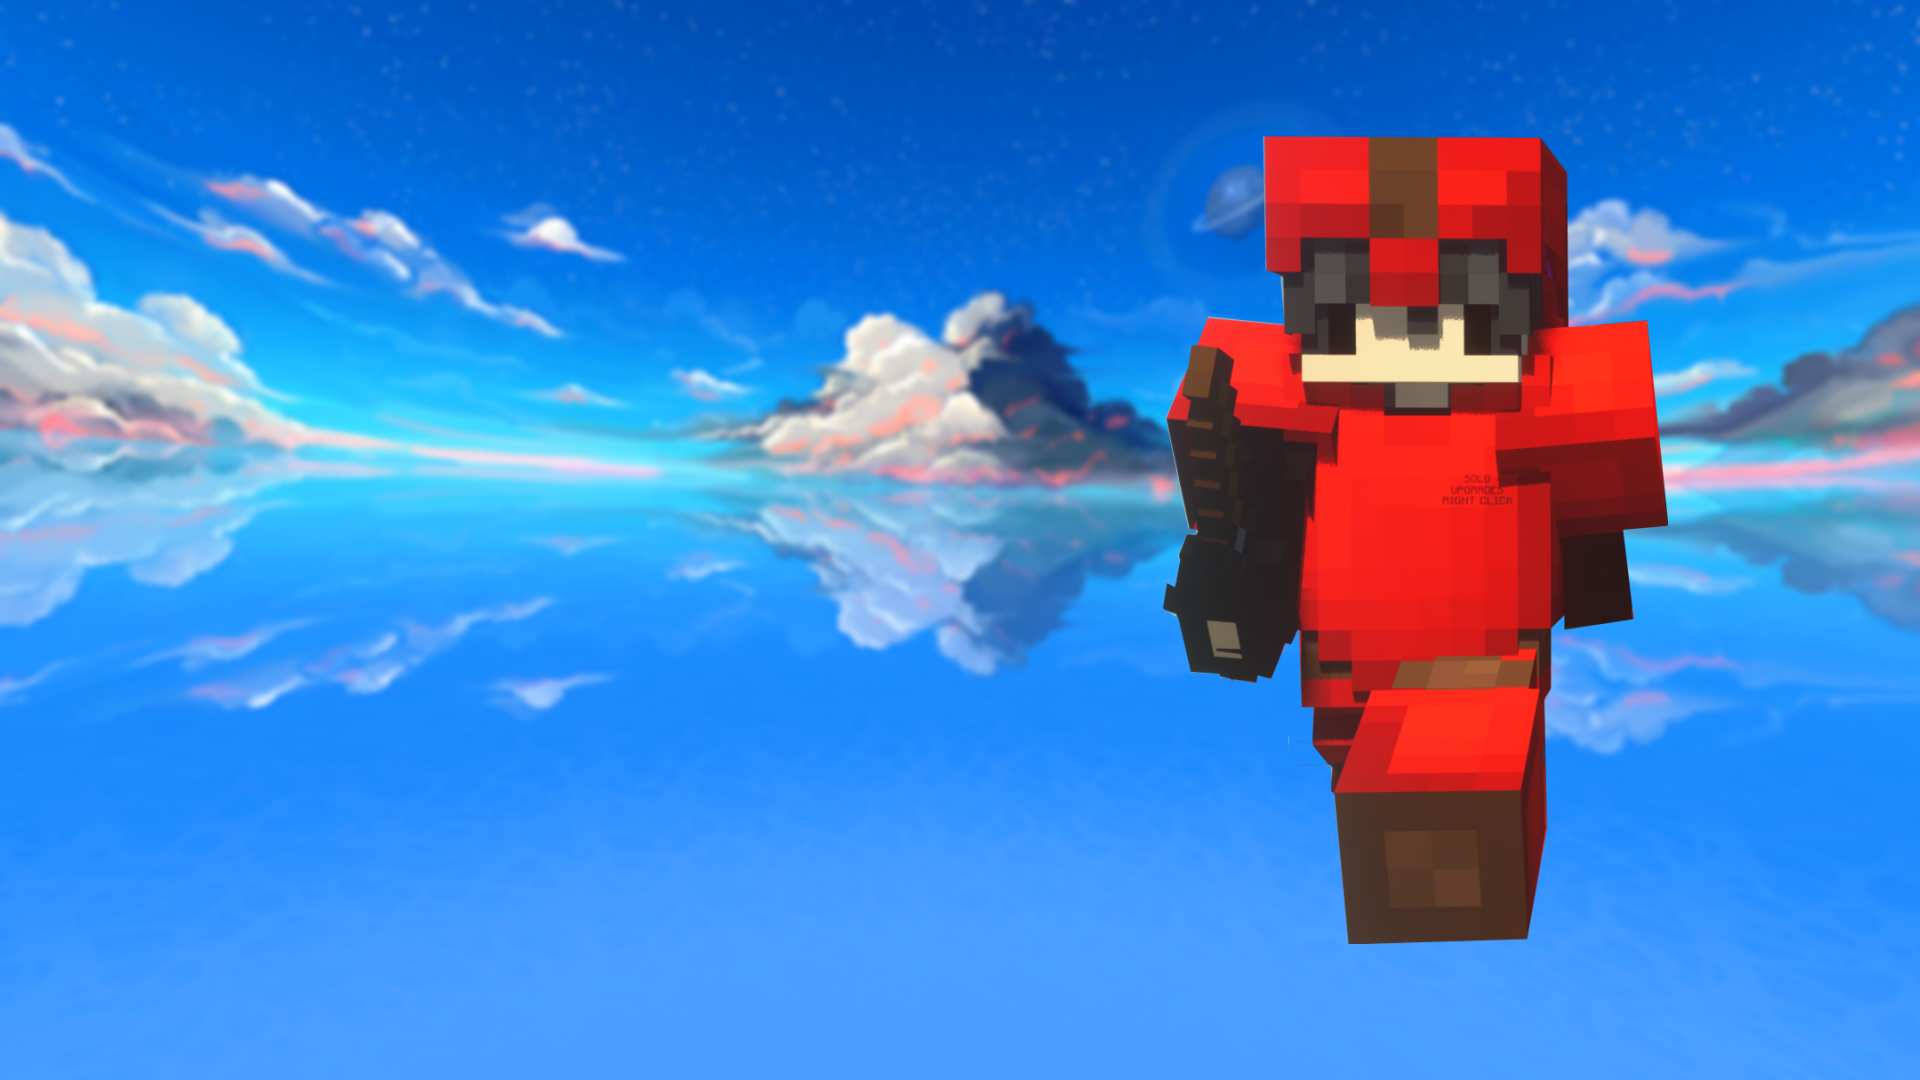
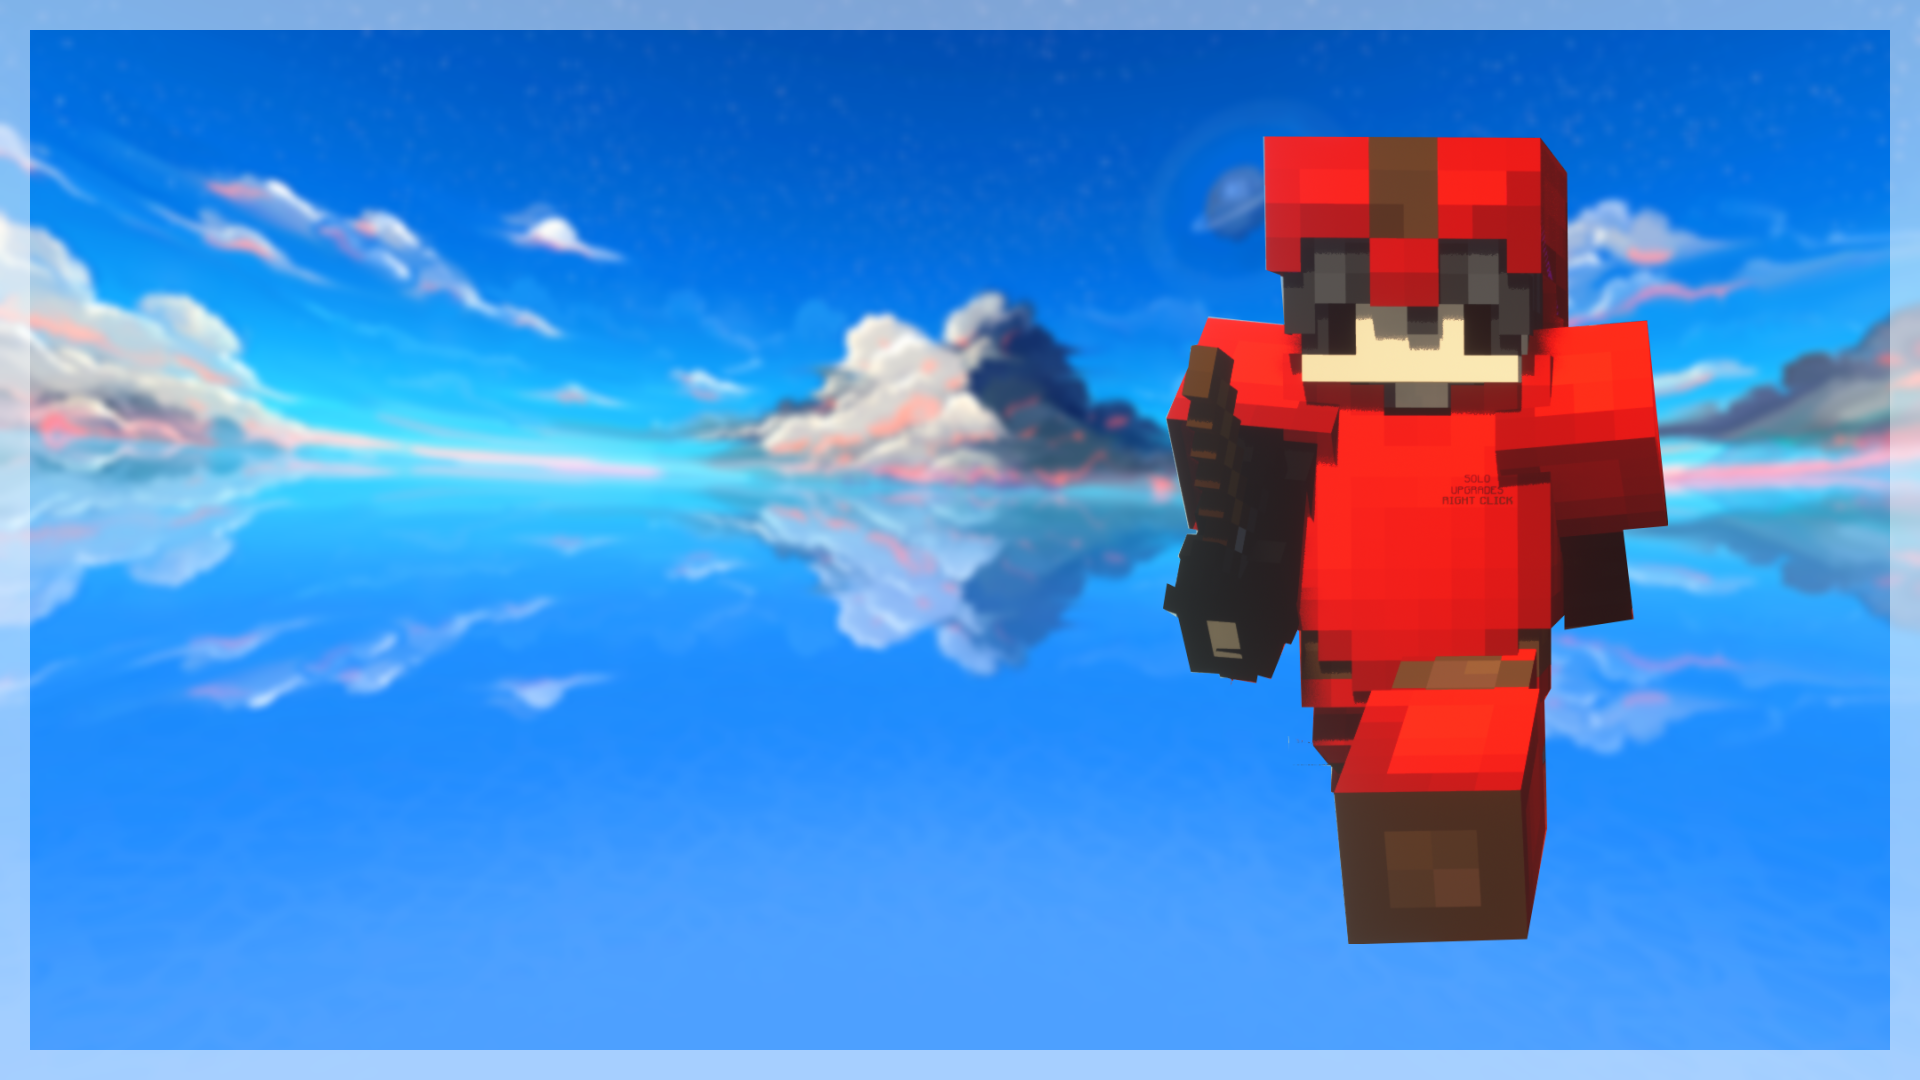
idk how this works but it does lol

Changed region(s): [[0.0, 0.0, 1.0, 1.0]]

diff --git a/index.js b/index.js
@@ -1,6 +1,7 @@
 const Jimp = require("jimp");
 const InputReader = require("./modules/InputReader.js");
 const CharacterModifier = require("./modules/CharacterModifier.js");
+const Options = require("./resource/options.json");
 
 (async () => {
     const characters = await InputReader.getCharacters();
@@ -26,9 +27,19 @@ const CharacterModifier = require("./modules/CharacterModifier.js");
     /* FIND BACKGROUND DIRECTION */
     const bgFileName = backgrounds[Math.floor(Math.random() * backgrounds.length)];
     var bgIMG = await Jimp.read(`./io/input/${bgFileName}`);
+    await bgIMG.crop(0, 0, 1920, 1080);
 
     console.log(`Applying Blur...`);
     await bgIMG.blur(4);
+
+    /* ADDING BORDER */
+    console.log("ADDING BORDER");
+    const bgCrop = await Jimp.read(bgIMG);
+    await bgCrop.crop(Options.BACKGROUND.BORDER_WIDTH, Options.BACKGROUND.BORDER_WIDTH, bgCrop.getWidth() - (Options.BACKGROUND.BORDER_WIDTH * 2), bgCrop.getHeight() - (Options.BACKGROUND.BORDER_WIDTH * 2));
+
+    await bgIMG.brightness(0.5);
+
+    await bgIMG.composite(bgCrop, Options.BACKGROUND.BORDER_WIDTH, Options.BACKGROUND.BORDER_WIDTH);
 
     console.log(`Compositing ${charFileName} on ${bgFileName}`);
     /* FIGURE OUT WHICH WAY CHARACTER IS FACING */
